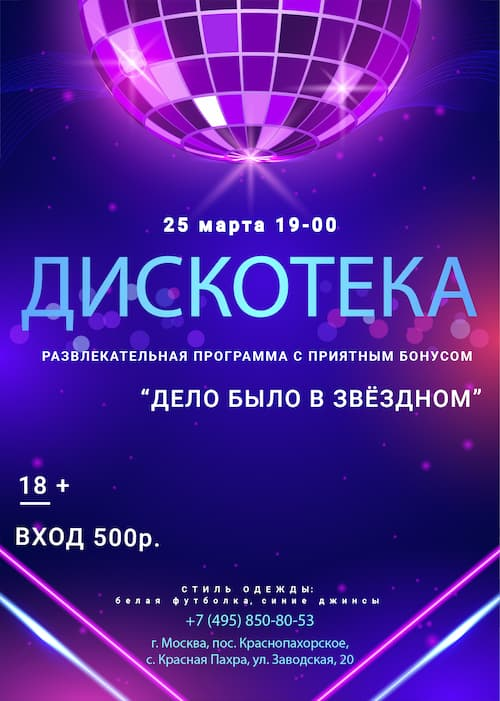
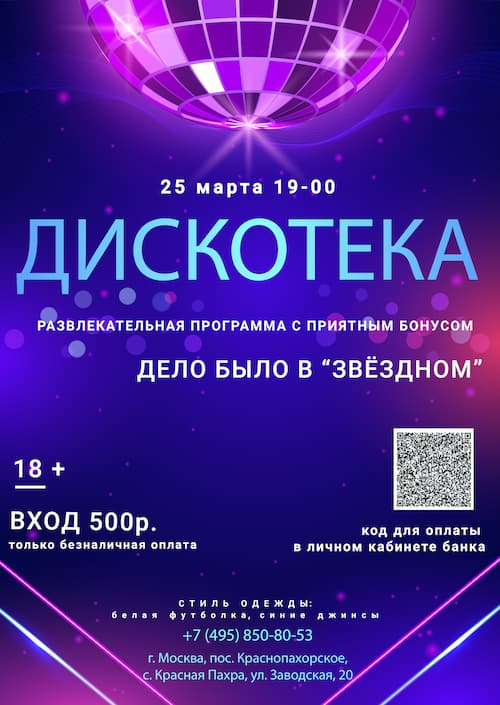
builf 17 march irina

diff --git a/src/configurations/eventsPageConfigurations/eventsListConfig.js b/src/configurations/eventsPageConfigurations/eventsListConfig.js
@@ -1,16 +1,77 @@
 export const eventsConfig = [
     {
-        id: 50,
+        id: 55,
         eventDay: 'СБ',
-        eventDayNumber: '1',
-        eventInfoDate: '1 апреля',
-        eventInfoTitle: 'Точное попадание»',
+        eventDayNumber: '25',
+        eventInfoDate: '25 марта',
+        eventInfoTitle: 'Дискотека',
         eventPlace: 'ДК Звёздный',
-        eventDescription: 'Принимаем заявки на участие в ежегодном конкурсе пародий "Точное попадание" Это возможность выступить на сцене ДК "Звёздный" и почувствовать себя солистом любимой группы или перевоплотиться в известную поп-диву, главного героя кино или даже мультика! В предыдущих конкурсах на сцене Краснопахорского ДК были представлены пародии на Елену Ваенгу, Валерия Леонтьева, Анастасию Волочкову, Витаса, Britney Spears, Demi Lovato, группу LittleBig, группу "Король и Шут". Многим зрителям запомнились пародии на мультики "Красавица и Чудовище", "Винни-Пух и все, все, все!" В нынешнем, 2023 году, фестиваль пройдёт в восьмой раз. Приглашаем к творчеству детей и взрослых! Методисты дома культуры уже ждут ваши заявки. Приходите и проявите себя!',
-        eventCost: 'Бесплатно',
+        eventDescription: 'ДИСКОТЕКА и ИГРОВАЯ ПРОГРАММА 25 марта в 19 часов танцевально-игровая программа ДЕЛО БЫЛО В "ЗВЁЗДНОМ". Вас ждёт незабываемый вечер с хорошей музыкой, зажигательными танцами и весёлыми конкурсами.',
+        eventCost: '500р только безналичный расчет',
         eventImgSrc: require('../../assets/images/eventsImages/disko-01.jpg'),
-        eventsPreviewImg: require('../../assets/images/eventsImages/eventsPreviewImgs/to4no-02.jpg'),
+        eventsPreviewImg: require('../../assets/images/eventsImages/eventsPreviewImgs/disko-02.jpg'),
     },
+    {
+        id: 54,
+        eventDay: 'СР и ПТ',
+        eventDayNumber: '22 и 24',
+        eventInfoDate: '22 и 24 марта',
+        eventInfoTitle: 'Открытые уроки в театральных студиях "Сорванцы" и "Маска"',
+        eventPlace: 'ДК Звёздный',
+        eventDescription: 'Скоро в доме культуры "Звездный" В краснопахорском доме культуры пройдут открытые уроки в театральных студиях "Сорванцы" и "Маска". Режиссёры Александр Волокитин и Людмила Герасимова приглашают всех желающих познакомиться с ведущими актёрами коллективов и посмотреть, как проходят репетиции. Встречи состоятся: 22 марта в 16 часов и 24 марта в 17 часов',
+        eventCost: 'Бесплатно',
+        eventImgSrc: require('../../assets/images/eventsImages/yrok-01.jpg'),
+        eventsPreviewImg: require('../../assets/images/eventsImages/eventsPreviewImgs/yrok-02.jpg'),
+    },
+    {
+        id: 53,
+        eventDay: 'ПТ',
+        eventDayNumber: '17',
+        eventInfoDate: '17 марта',
+        eventInfoTitle: 'КВИЗ',
+        eventPlace: 'ДК Звёздный',
+        eventDescription: 'А у вас есть любимая книга??? 21 марта в 16 часов методисты дома культуры "Звёздный" проведут занимательный квиз "МОЯ ЛЮБИМАЯ КНИГА".Принять участие могут как дети, так и взрослые! Приходите расширять кругозор и получать призы!',
+        eventCost: 'Бесплатно',
+        eventImgSrc: require('../../assets/images/eventsImages/qwiz-01.jpg'),
+        eventsPreviewImg: require('../../assets/images/eventsImages/eventsPreviewImgs/qwiz-02.jpg'),
+    },
+    {
+        id: 52,
+        eventDay: 'ПТ',
+        eventDayNumber: '17',
+        eventInfoDate: '17 марта',
+        eventInfoTitle: 'Матери против террора',
+        eventPlace: 'ДК Звёздный',
+        eventDescription: '17 марта в "ДК Звёздный" состоится тематическая встреча "Матери против террора" в клубе "Галактика',
+        eventCost: 'Бесплатно',
+        eventImgSrc: require('../../assets/images/eventsImages/trr-01.jpg'),
+        eventsPreviewImg: require('../../assets/images/eventsImages/eventsPreviewImgs/trr-02.jpg'),
+    },
+    {
+        id: 51,
+        eventDay: 'СБ',
+        eventDayNumber: '18',
+        eventInfoDate: '18 марта',
+        eventInfoTitle: 'Встреча в»',
+        eventPlace: 'ДК Звёздный',
+        eventDescription: 'Встреча в библиотеке 18 марта в 13 часов в литературной гостиной Краснопахорской библиотеки состоится знакомство с поэтом-исполнителем лирических стихотворений и песен.',
+        eventCost: 'Бесплатно',
+        eventImgSrc: require('../../assets/images/eventsImages/iteratura-01.jpg'),
+        eventsPreviewImg: require('../../assets/images/eventsImages/eventsPreviewImgs/iteratura-02.jpg'),
+    },
+    {
+        id: 50,
+        eventDay: 'ПТ',
+        eventDayNumber: '17',
+        eventInfoDate: '17 марта',
+        eventInfoTitle: 'Встреча с героем»',
+        eventPlace: 'ДК Звёздный',
+        eventDescription: 'Встреча с героем России 17 марта в 17 часов в рамках работы историко - патриотического клуба "Память Отчизны" и при поддержке благотворительного фонда "Ратники Отечества" в краснопахорском доме культуры "Звёздный" пройдет встреча с Героем России Игорем Задорожным. Игорь Задорожный - участник второй чеченской кампании. В ходе выполнения боевого задания офицер подорвался на мине, чудом избежал смерти и учился ЖИТЬ ЗАНОВО. Сегодня Игорь Задорожный занимает должность заместителя председателя правления благотворительного фонда "Ратники Отечества" и своё свободное время посвящает патриотическому воспитанию молодёжи на благо Родины и на благо России. Встреча состоится на первом этаже дома культуры. Вход свободный.',
+        eventCost: 'Бесплатно',
+        eventImgSrc: require('../../assets/images/eventsImages/vstre4aa-01.jpg'),
+        eventsPreviewImg: require('../../assets/images/eventsImages/eventsPreviewImgs/vstre4aa-02.jpg'),
+    },
+
     {
         id: 49,
         eventDay: 'СБ',

diff --git a/src/configurations/clubsPageConfigurations/clubsListsConfig.js b/src/configurations/clubsPageConfigurations/clubsListsConfig.js
@@ -70,20 +70,6 @@ export const earlyDevelopmentClubs = [
         years: '1.5 - 3'
     },
     {
-        id: 6,
-        club: 'Клуб раннего развития "Калейдоскоп"',
-        group: 'Группа «Азбука»',
-        age: 'для детей от 5 до 7 лет',
-        info: 'Комплекс занятий включает в себя первичные навыки счета, письма и чтения. Занятия, проводимые с элементами ментальной арифметики, помогут развить концентрацию внимания, улучшить память, повысить скорость мышления, развить мелкую моторику и научить считать в уме.',
-        manage: 'Куракова Любовь Васильевна',
-        managePhoto: require('../../assets/images/pesonalPhoto/lubov-kurakova.jpg'),
-        shedule: 'Вторник, Четверг 18:30 – 19:15',
-        code: '1068553',
-        place: 'ДК Звёздный',
-        price: 'Платный',
-        years: '5 - 7'
-    },
-    {
         id: 7,
         club: 'Клуб раннего развития "Калейдоскоп"',
         group: 'Группа «Азбука»',
@@ -167,20 +153,6 @@ export const earlyDevelopmentClubs = [
         price: 'Платный',
         years: '10 - 14'
     },
-    {
-        id: 13,
-        club: 'Клуб раннего развития "Знайка"',
-        group: 'Группа  «Вокруг Света»',
-        age: 'для детей от 7 до 12 лет',
-        info: 'Участие в клубном формировании открывает широкие возможности для формирования практических навыков работы с картой, книгой и другими источниками информации, а коллективная работа над творческими проектами и исследованиями помогает легче освоить и хорошо запомнить информацию из разных научных областей.',
-        manage: 'Шумилов Максим Александрович',
-        managePhoto: require('../../assets/images/pesonalPhoto/shumilov-maks.jpg'),
-        shedule: 'понедельник, пятница 18:00-18:45',
-        code: '1068580',
-        place: 'ДК Юбилейный',
-        price: 'Платный',
-        years: '7 - 14'
-    }
 ]
 
 
@@ -596,34 +568,6 @@ export const longevityClubs = [
         years: '55 +'
     },
     {
-        id: 2,
-        club: 'Группа «Гимнастика»',
-        group: '',
-        age: 'для лиц старшего поколения от 55+',
-        info: 'ЛФК для лиц старшего поколения – это уникальный гимнастический комплекс для укрепления мышц, суставов и костей, разработанный специально для людей с пониженным физическим тонусом.',
-        manage: 'Матвеева Елена Владимировна ',
-        managePhoto: require('../../assets/images/pesonalPhoto/MatveevaElena.jpg'),
-        shedule: 'Среда, Пятница 12:00 - 13:00',
-        code: '',
-        place: 'ДК Юбилейный',
-        price: 'Бесплатный',
-        years: '55 +'
-    },
-    {
-        id: 3,
-        club: 'Группа «Гимнастика суставная»',
-        group: '',
-        age: 'для лиц старшего поколения от 55+',
-        info: 'Занятия ориентированы на людей старшего поколения, которые желают укрепить мышцы и связки, избавиться от болей в спине, снизить риск возникновения серьезных заболеваний, снять усталость и повысить свой жизненный тонус.',
-        manage: 'Фомина Оксана Емельяновна',
-        managePhoto: require('../../assets/images/pesonalPhoto/FominaOksana.jpg'),
-        shedule: 'Вторник, Пятница 11:00 – 12:00',
-        code: '',
-        place: 'ДК Звёздный',
-        price: 'Бесплатный',
-        years: '55 +'
-    },
-    {
         id: 4,
         club: 'Группа «Скандинавская ходьба»',
         group:'',
@@ -707,18 +651,4 @@ export const longevityClubs = [
         price: 'Бесплатный',
         years: '55 +'
     },
-    {
-        id: 10,
-        club: 'Группа «Шахматы»',
-        group: '',
-        age: 'для лиц старшего поколения от 55+',
-        info: 'Игра в шахматы — это тренажер для мозга. Игрокам нужно просчитывать разные вариации ходов и запоминать их, обдумывать комбинации и пытаться спрогнозировать ход соперника. Благодаря игре развивается память, логическое мышление и концентрация внимания. Есть стереотип, что в старшем возрасте это сделать сложней, но участники "Московского долголетия" на своем примере доказывают обратное. В любом возрасте можно научиться играть. Игра имеет очевидную пользу для здоровья и долголетия, она помогает расширять круг общения, находить друзей и просто приятно проводить время.',
-        manage: 'Давыдов Никита Александрович',
-        managePhoto: require('../../assets/images/pesonalPhoto/davidov-nikita.jpg'),
-        shedule: 'Вторник, Четверг с 12:00 - 13:00',
-        code: '',
-        place: 'ДК Звёздный',
-        price: 'Бесплатный',
-        years: '55 +'
-    }
 ]
